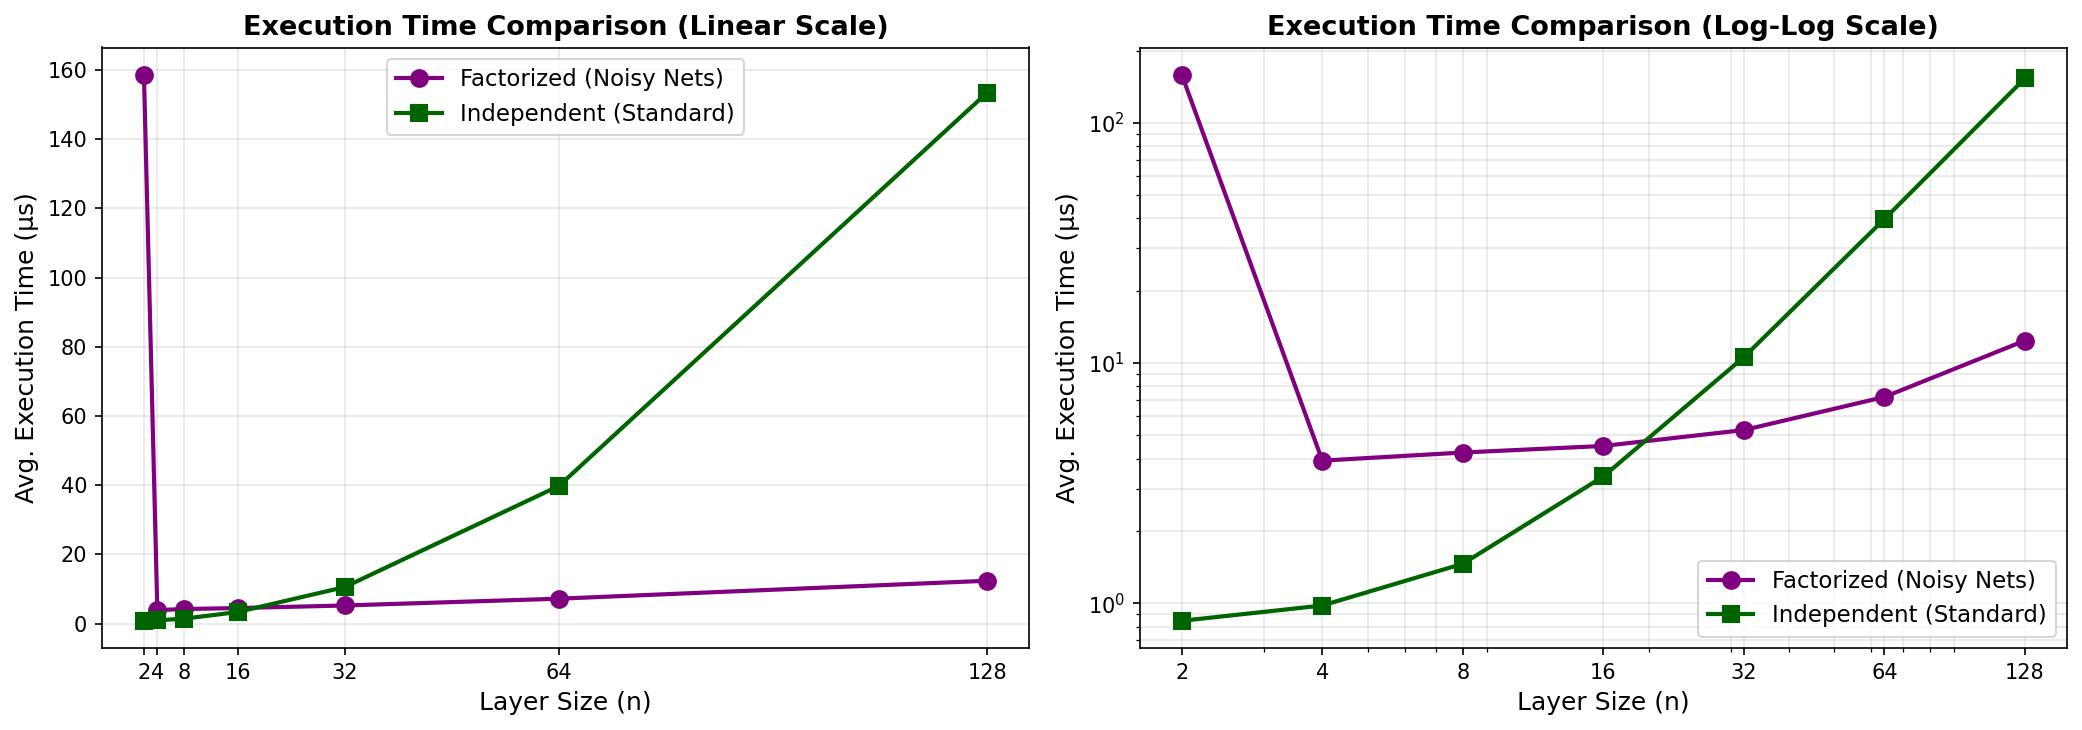
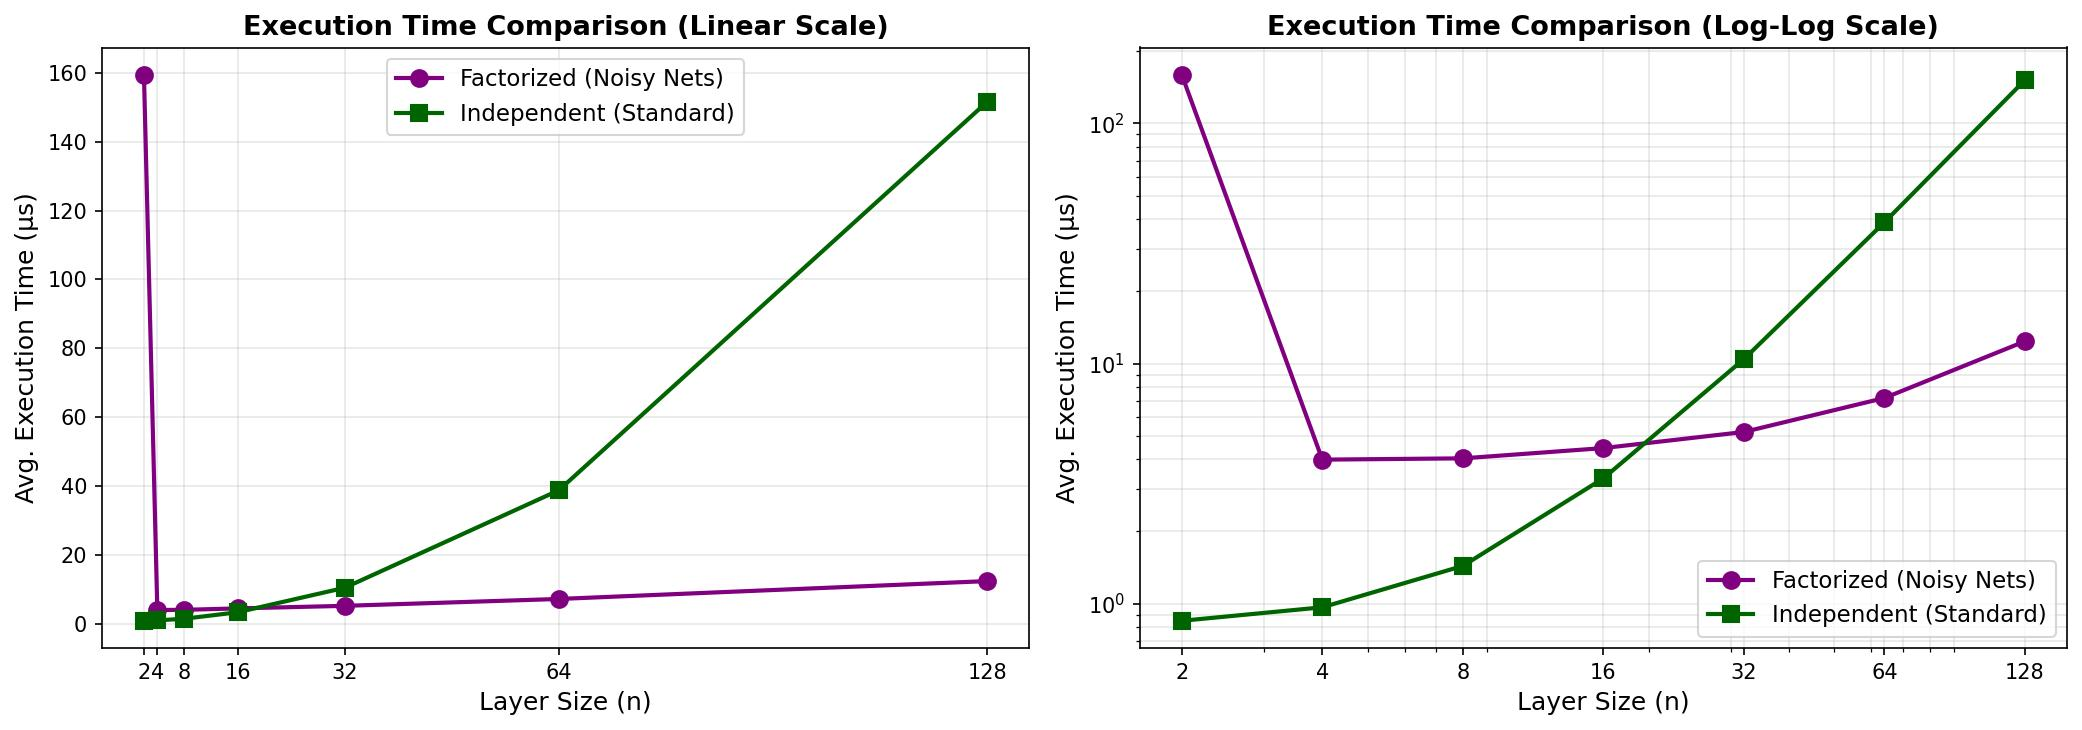
:books: doc: Graphis used in explanation of noisy nets

diff --git a/src/test/java/br/com/guialves/rflr/playground/PlaygroundC51Test.java b/src/test/java/br/com/guialves/rflr/playground/PlaygroundC51Test.java
@@ -1,0 +1,62 @@
+package br.com.guialves.rflr.playground;
+
+import org.junit.jupiter.params.ParameterizedTest;
+import org.junit.jupiter.params.provider.CsvSource;
+
+import java.util.Arrays;
+
+public class PlaygroundC51Test {
+
+    /**
+     * The idea of this playground is to be
+     * easy to test and learn, so you can
+     * understand step by step how the algorithm works.
+     * r = reward
+     * gamma = discount factor
+     * z = support vector
+     * deltaz = angular coefficient of z
+     * Vmin = support vector minimum value
+     * Vmax = support vector maximum value
+     */
+    @ParameterizedTest(name = "[{index}] {arguments}")
+    @CsvSource(useHeadersInDisplayName = true, textBlock = """
+    done
+    0
+    1
+    """)
+    void testDistributionalBellmanTargetPureJava(int done) {
+        double r = 0.5;
+        double gamma = 0.9;
+        double Vmin = -2;
+        double Vmax = 2;
+        int N = 5;
+        double deltaz = (Vmax - Vmin)/(N - 1);
+        double[] z = new double[N];
+        for (int i = 0; i < N; ++i) {
+            z[i] = Vmin + deltaz*i;
+        }
+
+        double[] Tz = new double[N];
+        double[] b = new double[N];
+        double[] l = new double[N];
+        double[] u = new double[N];
+
+        for (int j = 0; j < N; ++j) {
+            Tz[j] = clip(r + gamma * z[j] * (1 - done), Vmin, Vmax);
+            b[j] = (Tz[j] - Vmin)/deltaz;
+            l[j] = Math.floor(b[j]);
+            u[j] = Math.ceil(b[j]);
+        }
+
+        IO.println("z: " + Arrays.toString(z));
+        IO.println("Tz: " + Arrays.toString(Tz));
+        IO.println("b: " + Arrays.toString(b));
+        IO.println("l: " + Arrays.toString(l));
+        IO.println("u: " + Arrays.toString(u));
+    }
+
+    private static double clip(double val, double lower, double upper) {
+        if (val < lower) return lower;
+        return Math.min(val, upper);
+    }
+}

diff --git a/docs/normal_dist.py b/docs/normal_dist.py
@@ -1,0 +1,39 @@
+"""
+author: Guilherme Alves Silveira
+generated with AI tools (some adjustments were made)
+"""
+
+import numpy as np
+import matplotlib.pyplot as plt
+
+
+x = np.linspace(-4, 4, 1000)
+y = (1 / np.sqrt(2 * np.pi)) * np.exp(-0.5 * x**2)
+
+fig, ax = plt.subplots(figsize=(10, 6))
+
+ax.fill_between(x, y, where=(x >= -1) & (x <= 1), alpha=0.35, label=r'$\mu \pm 1\sigma$ (68.2%)')
+ax.fill_between(x, y, where=(x >= -2) & (x <= 2), alpha=0.25, label=r'$\mu \pm 2\sigma$ (95.4%)')
+ax.fill_between(x, y, where=(x >= -3) & (x <= 3), alpha=0.15, label=r'$\mu \pm 3\sigma$ (99.7%)')
+
+ax.plot(x, y, linewidth=2.5)
+ax.axvline(0, linewidth=1.5, linestyle='--', alpha=0.6)
+ax.text(0.05, 0.42, r'$\mu = 0$', fontsize=12, va='center')
+
+for s, label in zip([1, 2, 3], [r'$\sigma$', r'$2\sigma$', r'$3\sigma$']):
+    ax.annotate('', xy=(s, 0.02), xytext=(0, 0.02),
+                arrowprops=dict(arrowstyle='<->',lw=1.5))
+    ax.text(s / 2, 0.035, label, ha='center', fontsize=11)
+
+ax.set_xlabel('x', fontsize=13)
+ax.set_ylabel('Probability Density', fontsize=13)
+ax.set_title(r'Normal Distribution $\mathcal{N}(\mu=0,\ \sigma^2=1)$', fontsize=15, fontweight='bold', pad=15)
+ax.legend(fontsize=11, loc='upper right')
+ax.set_xlim(-4, 4)
+ax.set_ylim(0, 0.45)
+
+OUT = "./graphics/normal_distribution.jpg"
+plt.savefig(OUT, dpi=160, bbox_inches="tight",
+            facecolor=fig.get_facecolor())
+plt.close()
+print(f"Saved → {OUT}")

diff --git a/docs/noisy_nets_weight_dist.py b/docs/noisy_nets_weight_dist.py
@@ -1,0 +1,42 @@
+"""
+author: Guilherme Alves Silveira
+generated with AI tools (some adjustments were made)
+"""
+
+import numpy as np
+import matplotlib.pyplot as plt
+
+
+def gaussian(x, mu, sigma):
+    return (1 / (sigma * np.sqrt(2 * np.pi))) * np.exp(-0.5 * ((x - mu) / sigma) ** 2)
+
+x = np.linspace(-6, 8, 1000)
+
+curves = [
+    (0.0, 1.0,  r'$\mu^w=0,\ \sigma^w=1$ (init)'),
+    (2.5, 1.0,  r'$\mu^w=2.5,\ \sigma^w=1$ (shift right)'),
+    (-2.0, 1.0, r'$\mu^w=-2,\ \sigma^w=1$ (shift left)'),
+    (0.0, 0.4,  r'$\mu^w=0,\ \sigma^w=0.4$ (narrow)'),
+    (0.0, 2.0,  r'$\mu^w=0,\ \sigma^w=2$ (wide)'),
+]
+
+fig, ax = plt.subplots(figsize=(11, 6))
+
+for mu, sigma, label in curves:
+    ax.plot(x, gaussian(x, mu, sigma), linewidth=2.2, label=label)
+    ax.axvline(mu, linewidth=1.0, linestyle='--', alpha=0.4)
+
+ax.set_xlabel('w', fontsize=13)
+ax.set_ylabel('Probability Density', fontsize=13)
+ax.set_title(r'NoisyNets — Weight Distribution $w \sim \mathcal{N}(\mu^w,\ (\sigma^w)^2)$',
+             fontsize=14, fontweight='bold', pad=15)
+ax.legend(fontsize=10, loc='upper right')
+ax.set_xlim(-6, 8)
+ax.set_ylim(0, 1.1)
+
+plt.tight_layout()
+OUT = "./graphics/noisy_nets_weight_dist.jpg"
+plt.savefig(OUT, dpi=160, bbox_inches="tight",
+            facecolor=fig.get_facecolor())
+plt.close()
+print(f"Saved → {OUT}")
